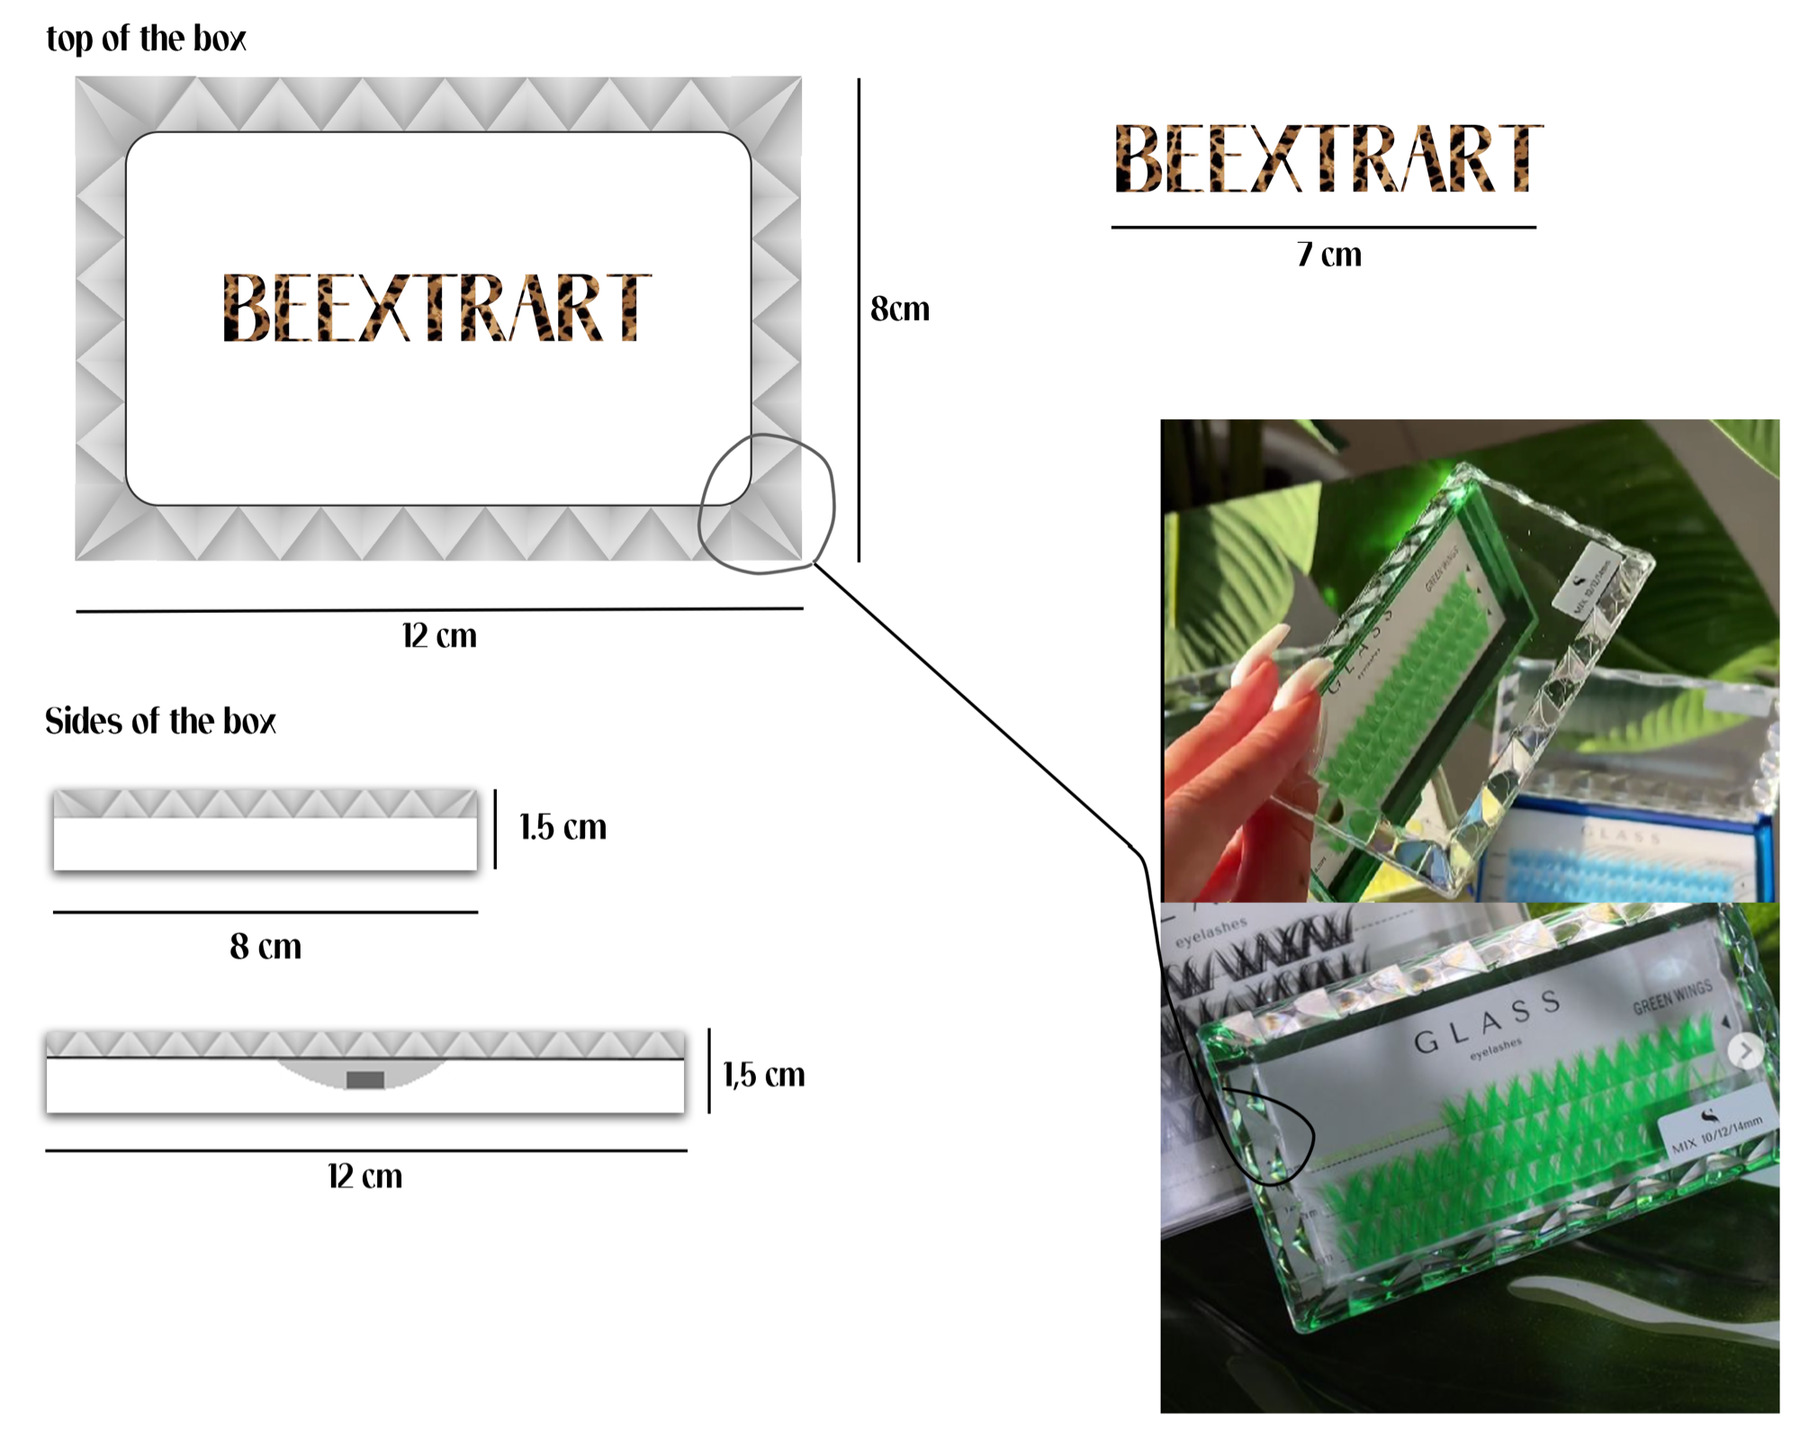
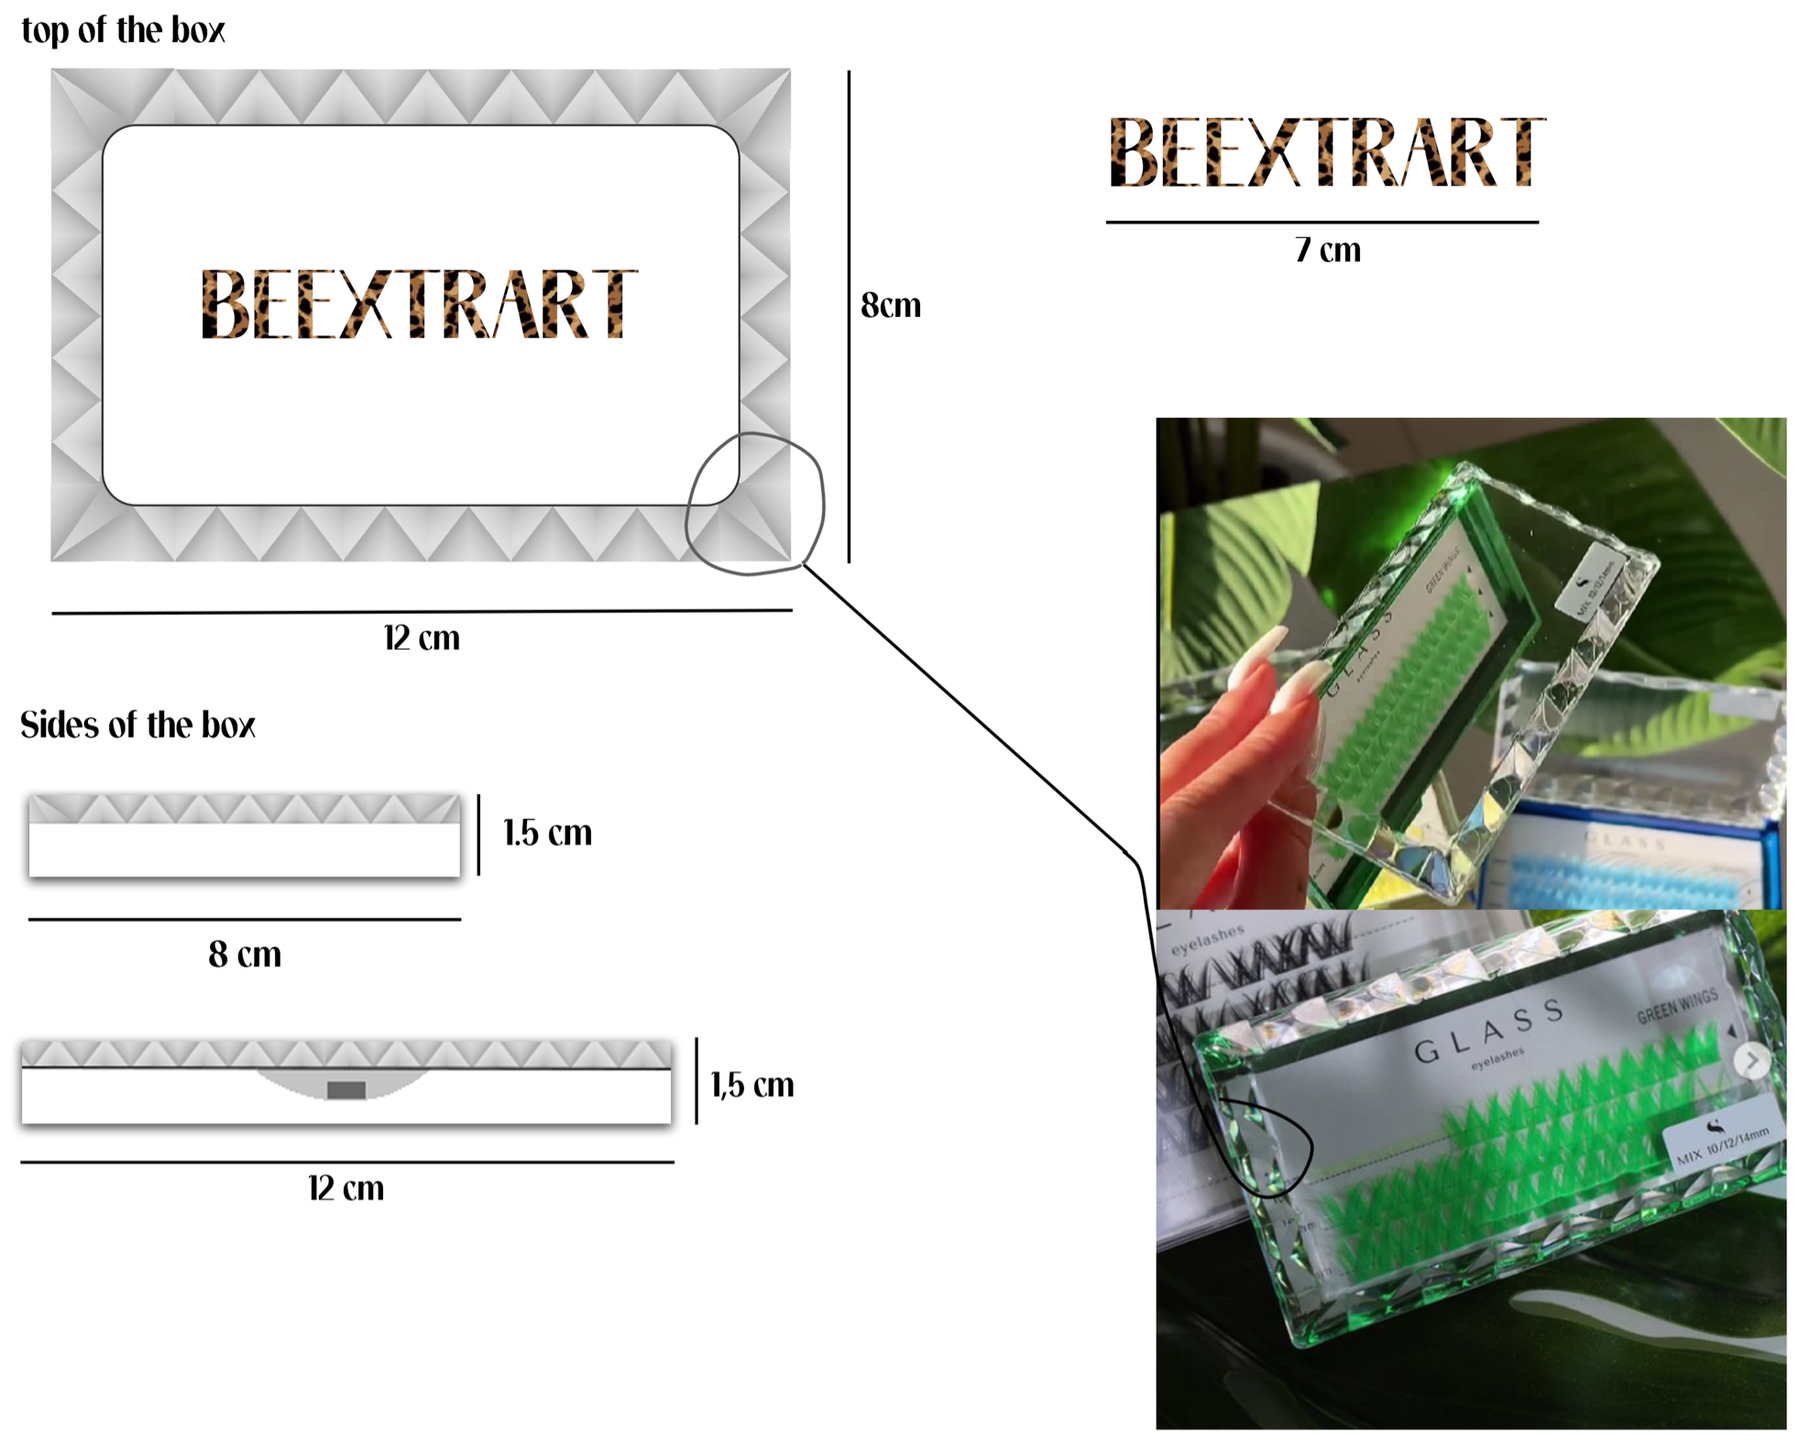
BEEXTRART: equalize tile sizes + retrim spec sheet + rename to Branding design
Packaging row:
- Re-trimmed bee-box-spec.jpg on all 4 sides with PIL trim_axis (was
  only trimming the bottom). Source 2000×2828 → trimmed 1964×1575 →
  final 1800×1443. The faint white frame around the spec content
  is gone.
- Switched both packaging tiles to an identical 2-col grid (md:grid-cols-2)
  with the same square aspect (1/1). Packaging artwork sits in a 1:1
  with cover-fit (dark bg blends); spec sheet sits in a 1:1 with
  contain-fit at 1% padding so it fills the panel almost completely.
- Two tiles now render at exactly the same dimensions (264×264 in the
  test viewport).

Print row:
- Same treatment: md:grid-cols-2 with identical 3/4 portrait aspect.
- Burgundy video tile and collab leaflet tile now render at identical
  dimensions (264×352 in the test viewport).

Social → Branding design:
- Eyebrow "05 · Social" → "05 · Branding design".
- Title "Lives on Instagram" → "Branding design:" with the original
  "Live on Instagram" demoted to a small uppercase subtitle.
- Right-side copy unchanged (still explains the videos play locally).

Note: user offered to provide a higher-quality leaflet file later;
the current bee-collab-poster.jpg (1600×2255 @ q=90, 474 KB) is the
best version available right now and will be easy to swap.

diff --git a/components/cases/BeextrartCaseStudy.tsx b/components/cases/BeextrartCaseStudy.tsx
@@ -358,28 +358,25 @@ export default function BeextrartCaseStudy() {
               </p>
             </div>
             <div className="col-span-12 md:col-span-9">
-              <div className="grid grid-cols-12 gap-5">
-                <div className="col-span-12 md:col-span-5">
-                  <ArtPanel
-                    src="/bee-shots/bee-packaging.jpg"
-                    label="Limited Edition · box artwork · still"
-                    bg="#1d0a14"
-                    ratio="3 / 4"
-                    cover
-                    onClick={() => openPanel("packaging")}
-                  />
-                </div>
-                <div className="col-span-12 md:col-span-7">
-                  <ArtPanel
-                    src="/bee-shots/bee-box-spec.jpg"
-                    label="Box · manufacturer spec · still"
-                    bg="#ffffff"
-                    ratio="1800 / 1449"
-                    onClick={() => openPanel("box-spec")}
-                    contain
-                    padInset="2%"
-                  />
-                </div>
+              {/* Two equal tiles — same column width, same square aspect */}
+              <div className="grid grid-cols-1 gap-5 md:grid-cols-2">
+                <ArtPanel
+                  src="/bee-shots/bee-packaging.jpg"
+                  label="Limited Edition · box artwork · still"
+                  bg="#1d0a14"
+                  ratio="1 / 1"
+                  cover
+                  onClick={() => openPanel("packaging")}
+                />
+                <ArtPanel
+                  src="/bee-shots/bee-box-spec.jpg"
+                  label="Box · manufacturer spec · still"
+                  bg="#ffffff"
+                  ratio="1 / 1"
+                  onClick={() => openPanel("box-spec")}
+                  contain
+                  padInset="1%"
+                />
               </div>
             </div>
           </div>
@@ -398,25 +395,22 @@ export default function BeextrartCaseStudy() {
               </p>
             </div>
             <div className="col-span-12 md:col-span-9">
-              <div className="grid grid-cols-12 gap-5">
-                <div className="col-span-12 md:col-span-7">
-                  <VideoPanel
-                    src="/bee-shots/bee-burgundy.mp4"
-                    poster="/bee-shots/bee-product-burgundy.jpg"
-                    label="Burgundy lashes · collab pack · video"
-                    ratio="3 / 4"
-                  />
-                </div>
-                <div className="col-span-12 md:col-span-5">
-                  <ArtPanel
-                    src="/bee-shots/bee-collab-poster.jpg"
-                    label="Collab leaflet · A5 · still"
-                    bg="#0e0405"
-                    ratio="3 / 4"
-                    cover
-                    onClick={() => openPanel("poster")}
-                  />
-                </div>
+              {/* Two equal tiles — same column width, same portrait aspect */}
+              <div className="grid grid-cols-1 gap-5 md:grid-cols-2">
+                <VideoPanel
+                  src="/bee-shots/bee-burgundy.mp4"
+                  poster="/bee-shots/bee-product-burgundy.jpg"
+                  label="Burgundy lashes · collab pack · video"
+                  ratio="3 / 4"
+                />
+                <ArtPanel
+                  src="/bee-shots/bee-collab-poster.jpg"
+                  label="Collab leaflet · A5 · still"
+                  bg="#0e0405"
+                  ratio="3 / 4"
+                  cover
+                  onClick={() => openPanel("poster")}
+                />
               </div>
             </div>
           </div>
@@ -426,8 +420,11 @@ export default function BeextrartCaseStudy() {
         <section className="mx-auto mt-32 max-w-[1400px] px-6 md:mt-44 md:px-12">
           <div className="mb-8 flex flex-col items-start justify-between gap-3 md:flex-row md:items-baseline">
             <div>
-              <div className="mono opacity-60">05 · Social</div>
-              <h2 className="display mt-4" style={titleStyle}>Lives on Instagram</h2>
+              <div className="mono opacity-60">05 · Branding design</div>
+              <h2 className="display mt-4" style={titleStyle}>Branding design:</h2>
+              <p className="mt-3 text-[13px] uppercase tracking-[0.28em] text-bone-200/65">
+                Live on Instagram
+              </p>
             </div>
             <p className="max-w-[44ch] text-[14px] leading-[1.55] text-bone-200/75">
               Four Reels from{" "}